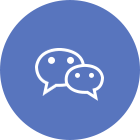
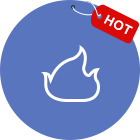
唯简-白水苹果
修改

Changed region(s): [[0.2286, 0.3143, 0.7429, 0.7429], [0.4857, 0.0286, 1.0, 0.3143], [0.6, 0.0, 0.6571, 0.0286]]

diff --git a/weijian/apple/main.html b/weijian/apple/main.html
@@ -16,22 +16,7 @@
 		</style>
 		<script src="http://rs1.2wm.cn/javascript/jquery.js" type="text/javascript" charset="utf-8"></script>
 		<script type="text/javascript">
-			//判断是否为微信浏览器
-			function isWeiXin(){
-    			var ua = window.navigator.userAgent.toLowerCase();
-	    			if(ua.match(/MicroMessenger/i) == 'micromessenger'){
-	      			return true;
-    			}
-  			}
-
 			$(function(){
-				$("a.weixin").click(function(){
-  					if(!isWeiXin()){
-  						location.href = "weixin.html";
-  					}else{
-  						location.href = "saoma.html";
-  					}
-  				})
 				$("div.a_mate").addClass("apple_m");
   				if(window.location.hash == "#index"){
 					$("div.a_mate").removeClass("apple_m");
@@ -39,7 +24,6 @@
 					$("div.menu").show();
 					$("div.menu").css("bottom","0");
 				}
-
   				$("#nav_btn").click(function(){
 					$(this).hide();
 					$("div.menu").show();
@@ -94,10 +78,10 @@
 						<p>再次购买</p>
 					</li>
 					<li>
-						<a class="weixin" href="#">
+						<a class="weixin" href="http://comrs1.2wm.cn/Public/gifts/index.html?Code=">
 							<img class="img-responsive" src="img/apple_05.png"/>
 						</a>
-						<p>微信关注</p>
+						<p>精彩活动</p>
 					</li>
 					<li>
 						<a class="weidian" href="guo.html">

diff --git a/weijian/apple/guo.html b/weijian/apple/guo.html
@@ -23,6 +23,7 @@
 			<p class="duanluo">
 				陕西白水美华果业有限责任公司地处白水，集苹果种植、收购、包装、加工、储藏、销售为一体，拥有冷储保鲜库17座，储藏总量达5100吨苹果。其旗下的“臻果源”品牌始创于2014年，致力于为消费者提供美味、绿色、健康的优质白水有机苹果。“臻果源”白水有机苹果以“个大、色艳、香甜、细脆、耐储藏、无污染”为特色，成为果品市场上的名牌产品，被消费者誉为“黄土高原上的明珠”。
 			</p>
+			<img src="img/ewm.jpg" alt="" class="img-responsive">
 			<p class="copyright" style="">
 			    <a href="http://c10000.2wm.cn/site/index.html">技术支持：唯简物联</a>&nbsp;&nbsp;<a class="go_wz" href="http://c10000.2wm.cn/site/index.html">了解详情</a>
 			</p>

diff --git a/weijian/apple/cuxiao.html b/weijian/apple/cuxiao.html
@@ -10,7 +10,7 @@
 	<body>
 		<div class="article">
 			<h3>苹果美食</h3>
-			<p class="duanluo" style="margin-top: 18px;">一天一个苹果，医生远离我。白水苹果的糖分含量和有机物指数均高于普通苹果，也优于日本红富士。常食白水苹果，可补血益气、止渴生津、开胃健脾。其丰富的维生素C，具有恢复疲劳、健美皮肤的功效。</p>
+			<p class="duanluo" style="margin-top: 18px;">一天一个苹果，医生远离我。白水苹果的糖分含量和有机物指数均高于普通苹\n果，也优于日本红富士。常食白水苹果，可补血益气、止渴生津、开胃健脾。其丰富的维生素C，具有恢复疲劳、健美皮肤的功效。</p>
 			<div class="beef">
 				<div class="b_img">
 					<img src="img/meishi01.jpg" alt="" class="img-responsive">
